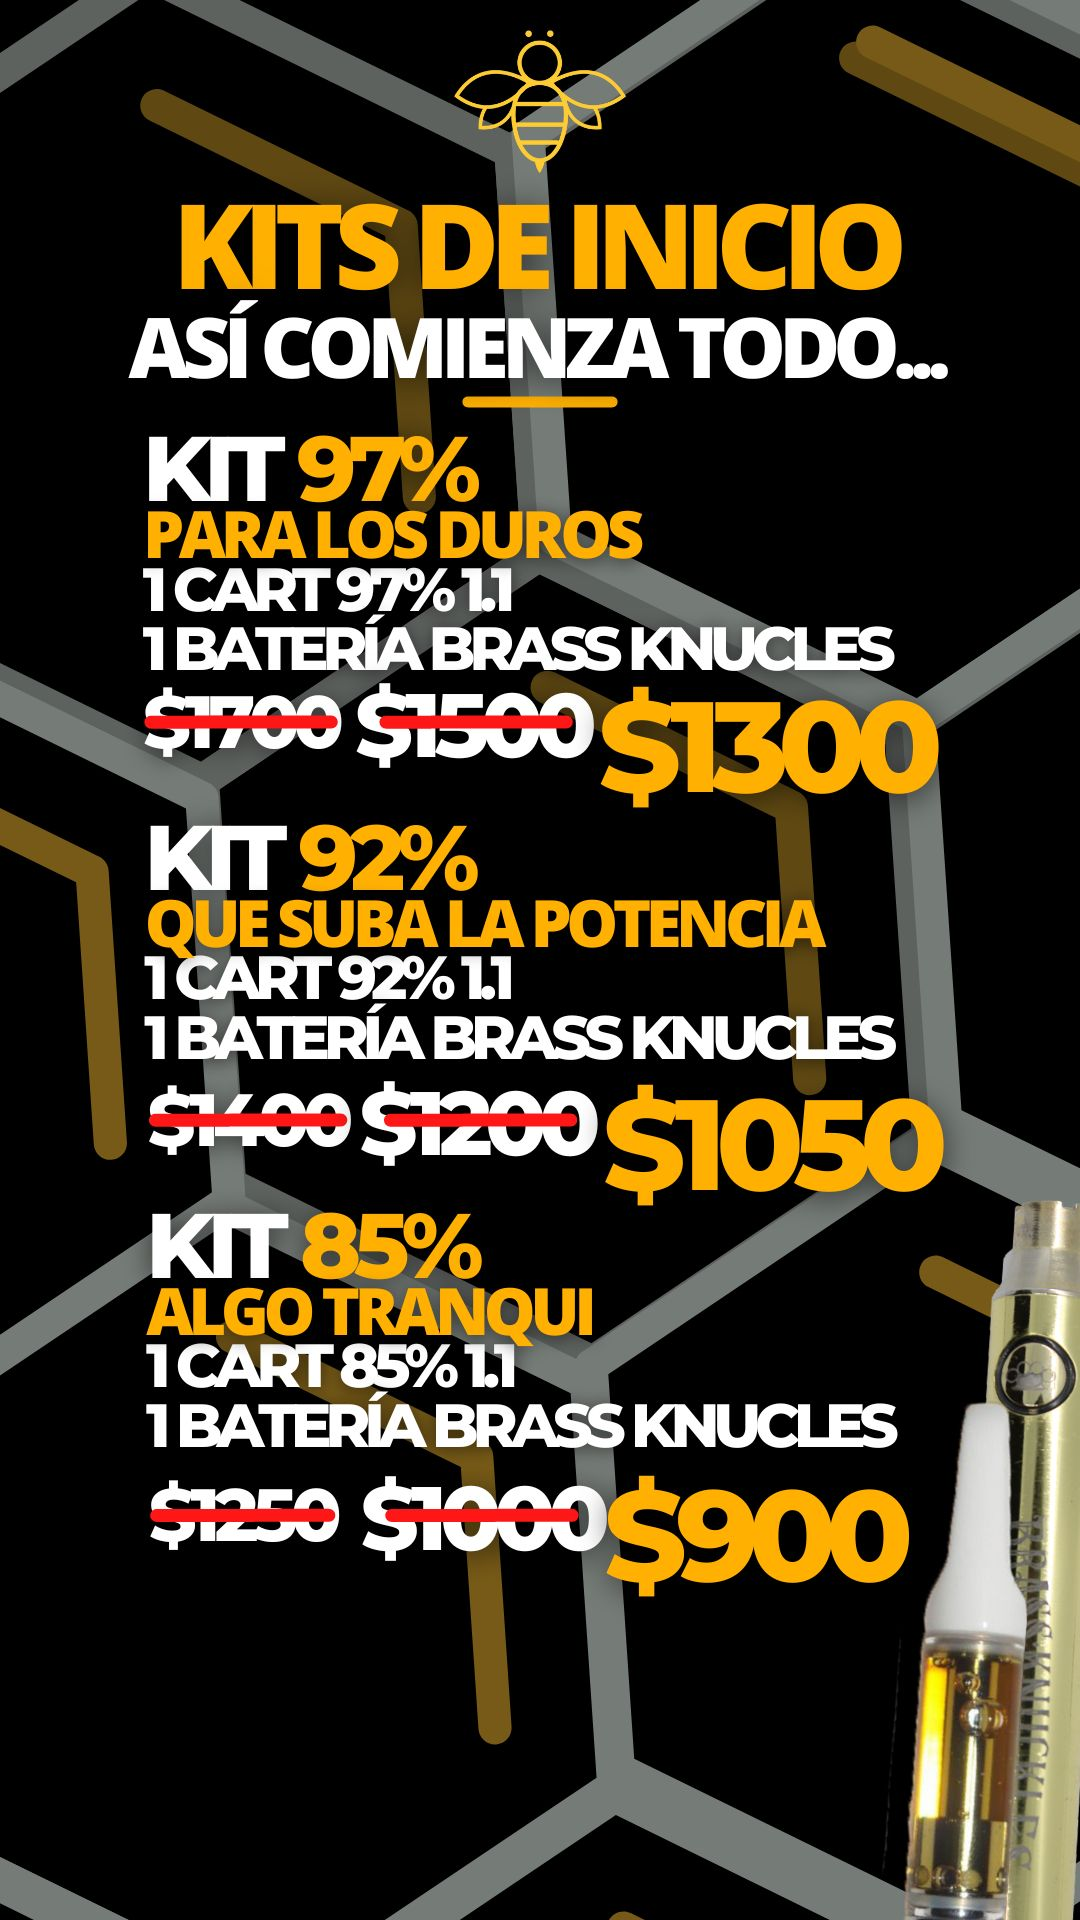
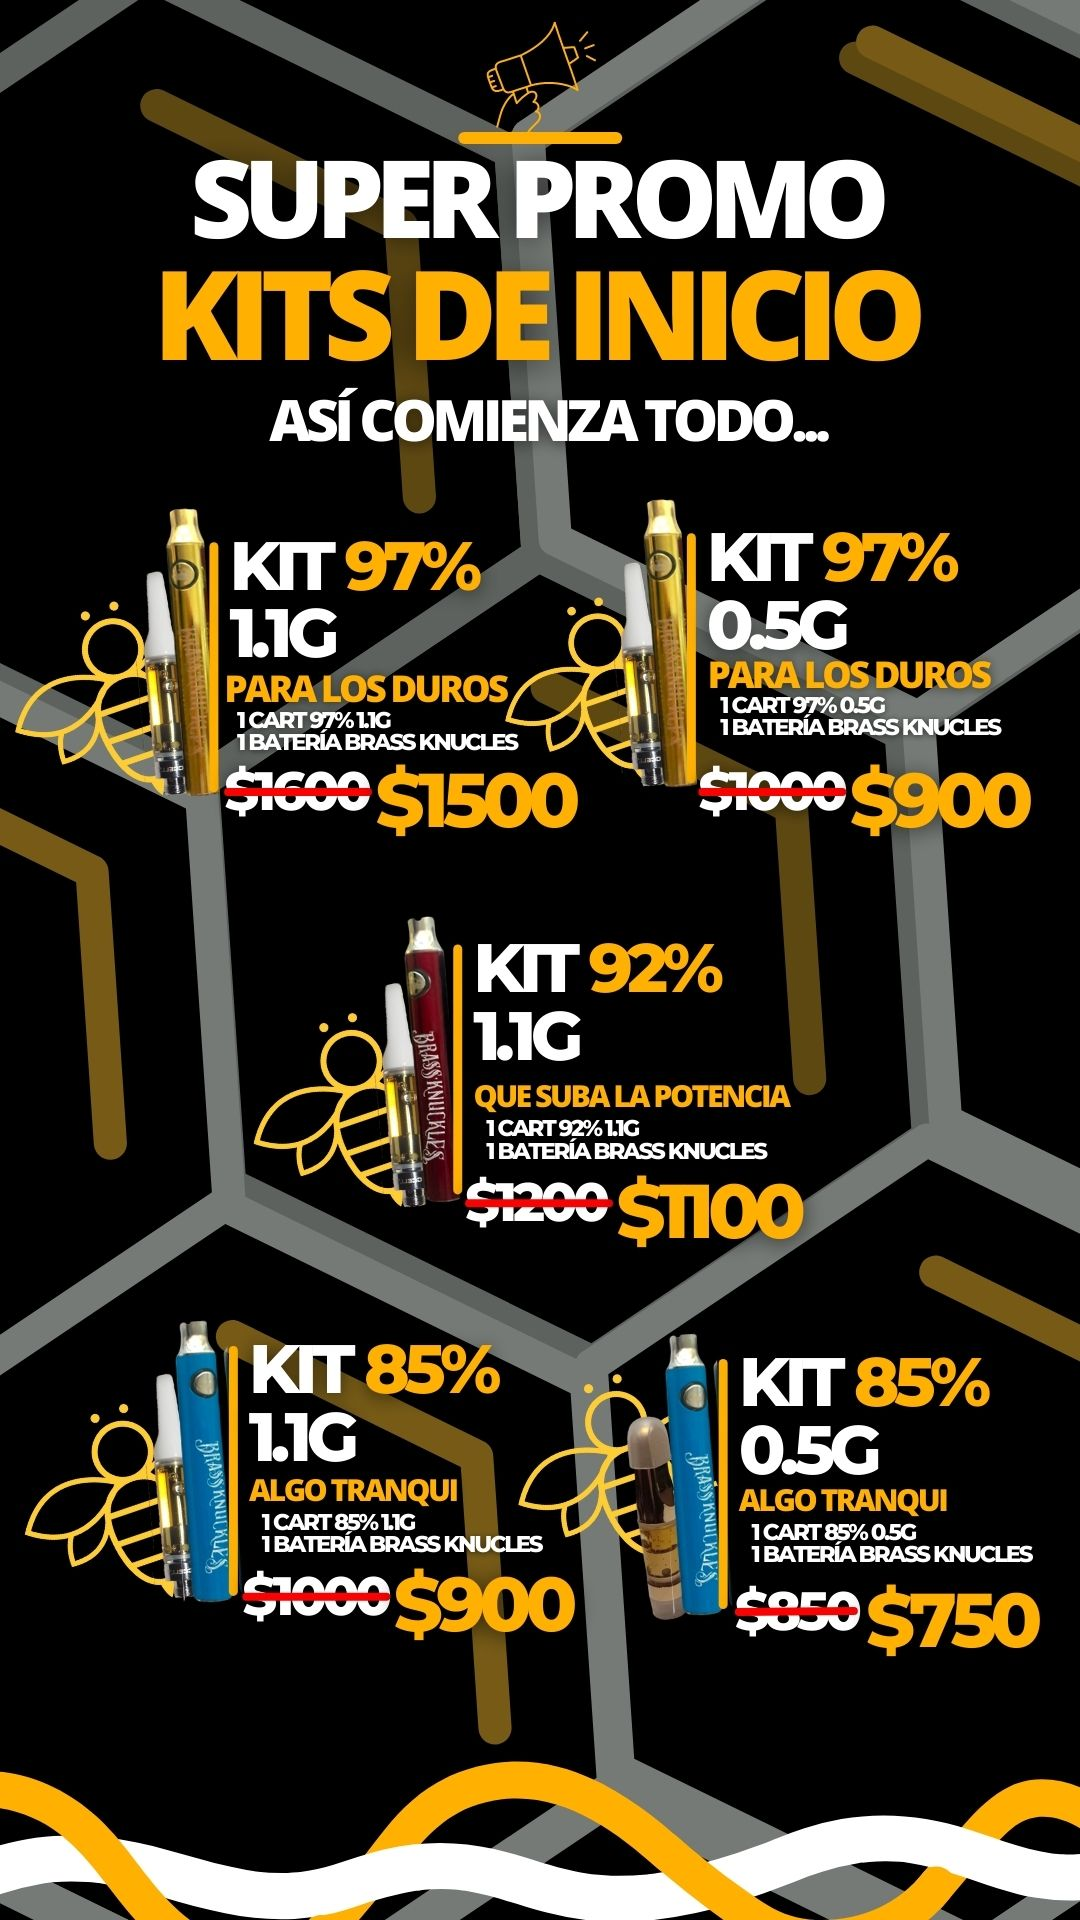
add

diff --git a/css/estilos.css b/css/estilos.css
@@ -534,7 +534,7 @@ img{
   
 
 .promo3{
-    background-image: url("/media/kitsinicioprecionormal.jpg");
+    background-image: url("/media/kits.jpg");
     background-size: contain;
     background-position: center;
     background-repeat: no-repeat;
